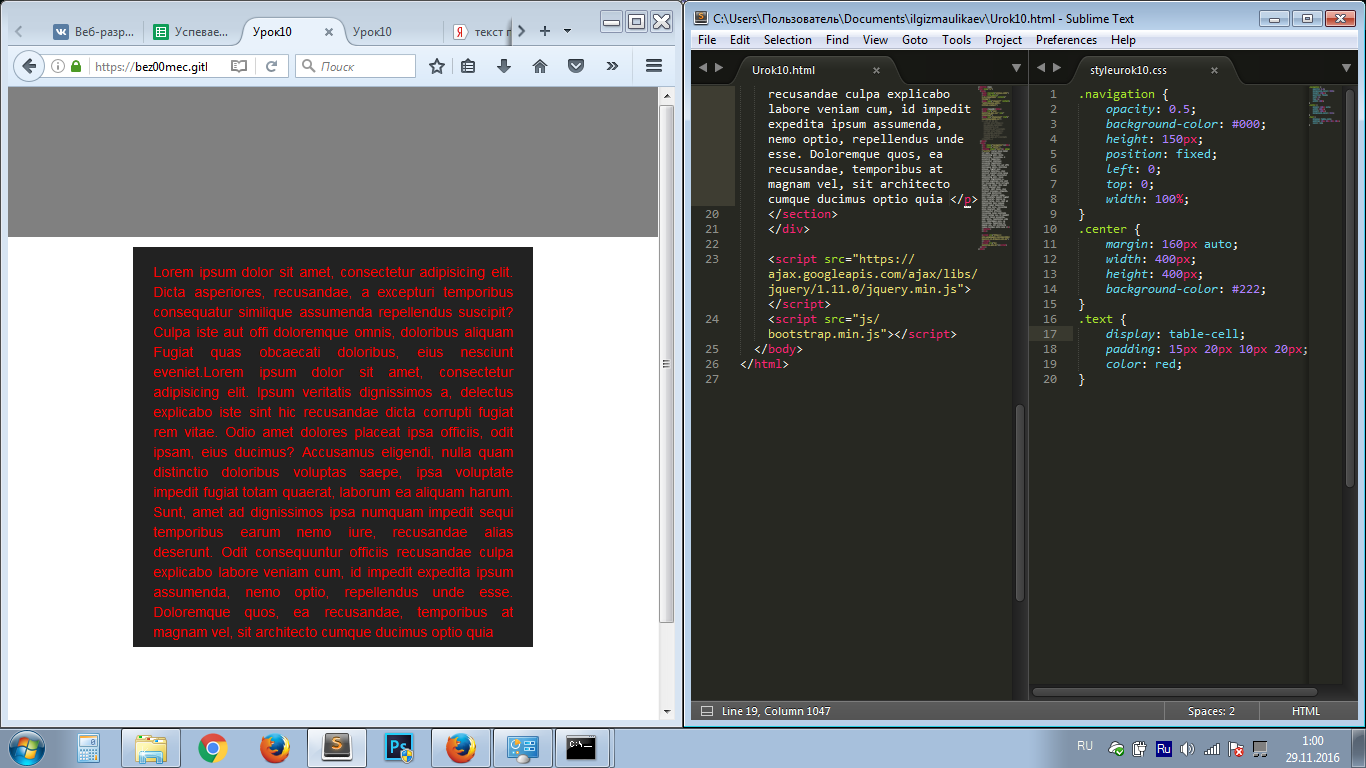
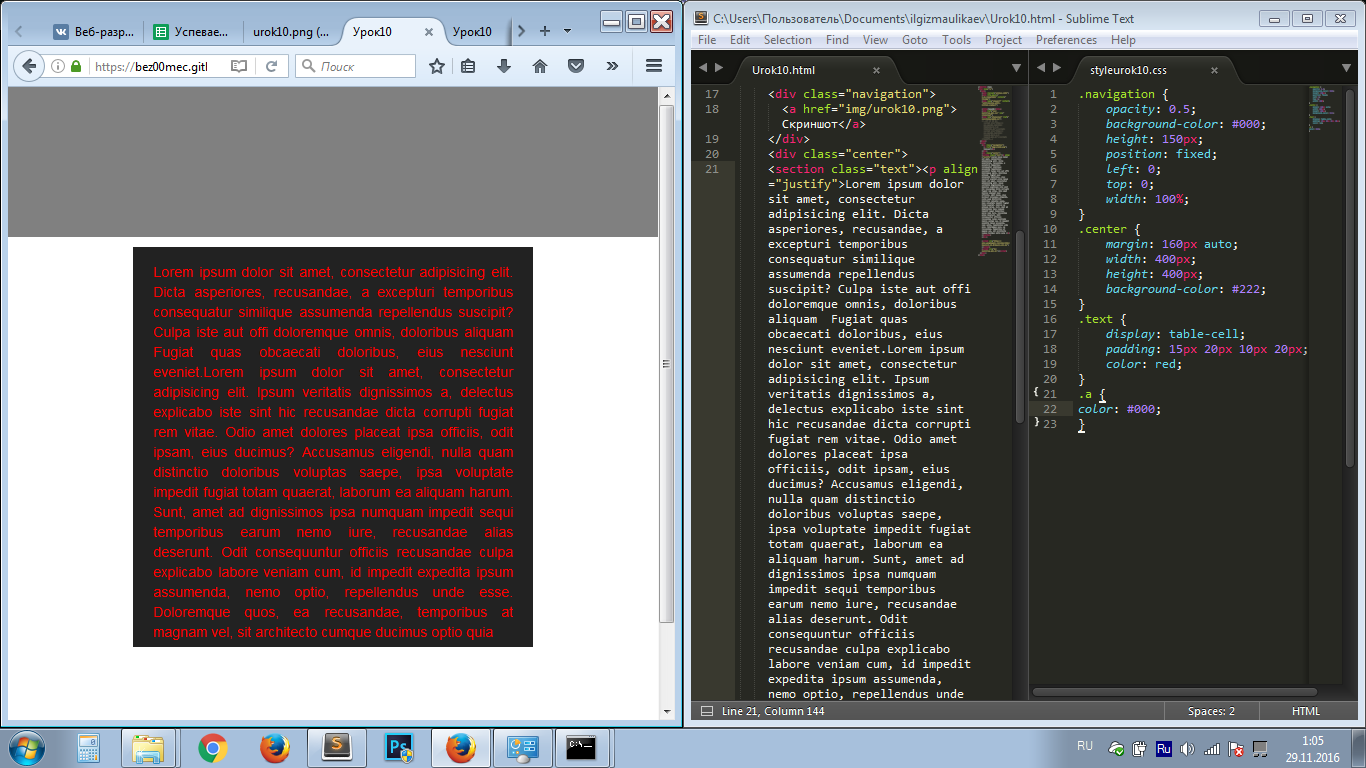
скриншот

Changed region(s): [[0.0, 0.0, 1.0, 1.0], [0.8302, 0.5312, 0.8609, 0.5625]]

diff --git a/css/styleurok10.css b/css/styleurok10.css
@@ -19,5 +19,7 @@
 	color: red;
 }
 .a {
-color: #000;
+	font-size: 70px;
+	text-align: center;
+	color: #000;
 }
